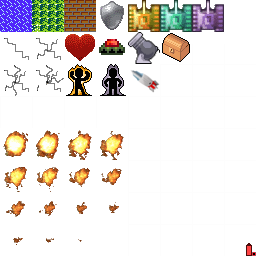
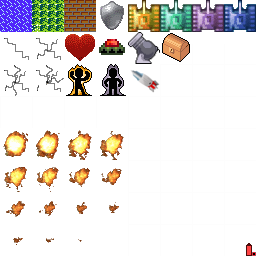
4 player added

Changed region(s): [[0.875, 0.0, 1.0, 0.125]]

diff --git a/src/functions.js b/src/functions.js
@@ -162,6 +162,7 @@ function authorizePlayer(data) {
     //data[3] - bonuses
     //data[4] - players
     //data[5] - mines
+
     if (data[0] === true) {
         currentPlayer = new Player(data[2].x, data[2].y, data[1]);
 
@@ -169,7 +170,7 @@ function authorizePlayer(data) {
             var bonus;
             for (var bonusName in data[3]) {
                 bonus = data[3][bonusName];
-                effectsCanvas.drawImage(engine.image, imagePosition[bonusName].x, imagePosition[bonusName].y, 32, 32, bonus.x, bonus.y, 32, 32);
+                effectsCanvas.drawImage(engine.image, imagePosition[bonusName].x, imagePosition[bonusName].y, 32, 32, bonus.position.x, bonus.position.y, 32, 32);
             }
             var mine;
             for (var key in data[5]) {
@@ -701,7 +702,7 @@ function handlePlayer(data) {
         clearInterval(checkConnectionInterval);
     }
 
-    $("#p1Wrapper, #p2Wrapper, #p3Wrapper").hide();
+    $("#p1Wrapper, #p2Wrapper, #p3Wrapper, #p4Wrapper").hide();
     for (var key in data) {
         if (data.hasOwnProperty(key)) {
             $("#p" + data[key].playerNumber + "Wrapper").show();

diff --git a/app.js b/app.js
@@ -6,7 +6,7 @@ var express = require("express"),
     }),
     messages = [],
     path = require("path"),
-    maxPlayersAmount = 3,
+    maxPlayersAmount = 4,
     Bullet = require("bullet"),
     Player = require("player"),
     Enum = require("enum"),
@@ -281,7 +281,7 @@ function isLocked(gameId) {
         result.isLocked = true;
         result.reason = "password lock";
     }
-    if (games[gameId] != undefined && countObjElements(games[gameId].players) >= 3) {
+    if (games[gameId] != undefined && countObjElements(games[gameId].players) >= maxPlayersAmount) {
         result.isLocked = true;
         result.reason = "no free slots";
     }

diff --git a/src/player.js b/src/player.js
@@ -19,10 +19,16 @@ Player.prototype.render = function () {
         engine.canvas.clearRect(this.position.x, this.position.y, 32, 32);
     }
 
+    if(!this.visible){
+        engine.canvas.globalAlpha = 0.5;
+    }
+
     engine.drawImg(
         engine.image,
         imagePosition.players[this.playerNumber].x, imagePosition.players[this.playerNumber].y,
         32, 32, this.position.x, this.position.y, 32, 32, true, angle);
+
+    engine.canvas.globalAlpha = 1;
 
 }
 

diff --git a/chunks/playground_wrapper.html b/chunks/playground_wrapper.html
@@ -41,6 +41,7 @@
         <li id="p1Wrapper"><span id="p1">Player 1</span>:&nbsp;<span id="p1Score">0</span></li>
         <li id="p2Wrapper"><span id="p2">Player 2</span>:&nbsp;<span id="p2Score">0</span></li>
         <li id="p3Wrapper"><span id="p3">Player 3</span>:&nbsp;<span id="p3Score">0</span></li>
+        <li id="p4Wrapper"><span id="p4">Player 4</span>:&nbsp;<span id="p4Score">0</span></li>
     </ul>
 
     <div id="playerNameWrapper" class="metal">

diff --git a/src/engine.js b/src/engine.js
@@ -73,7 +73,8 @@ var imagePosition = {
     players: {
         1: {x: 128, y: 0},
         2: {x: 160, y: 0},
-        3: {x: 192, y: 0}
+        3: {x: 192, y: 0},
+        4: {x: 224, y: 0}
     },
     cannonProjectile: {
         x: 252,

diff --git a/src/client.js b/src/client.js
@@ -1,5 +1,5 @@
 var currentPlayer, clientHash, players = {},
-    maxPlayersAmount = 3,
+    maxPlayersAmount = 4,
     bullets = {}, mines = {}, bonuses = {},
     explosion = imagePosition.explosion,
     mapField, mapCanvas, map = {},
